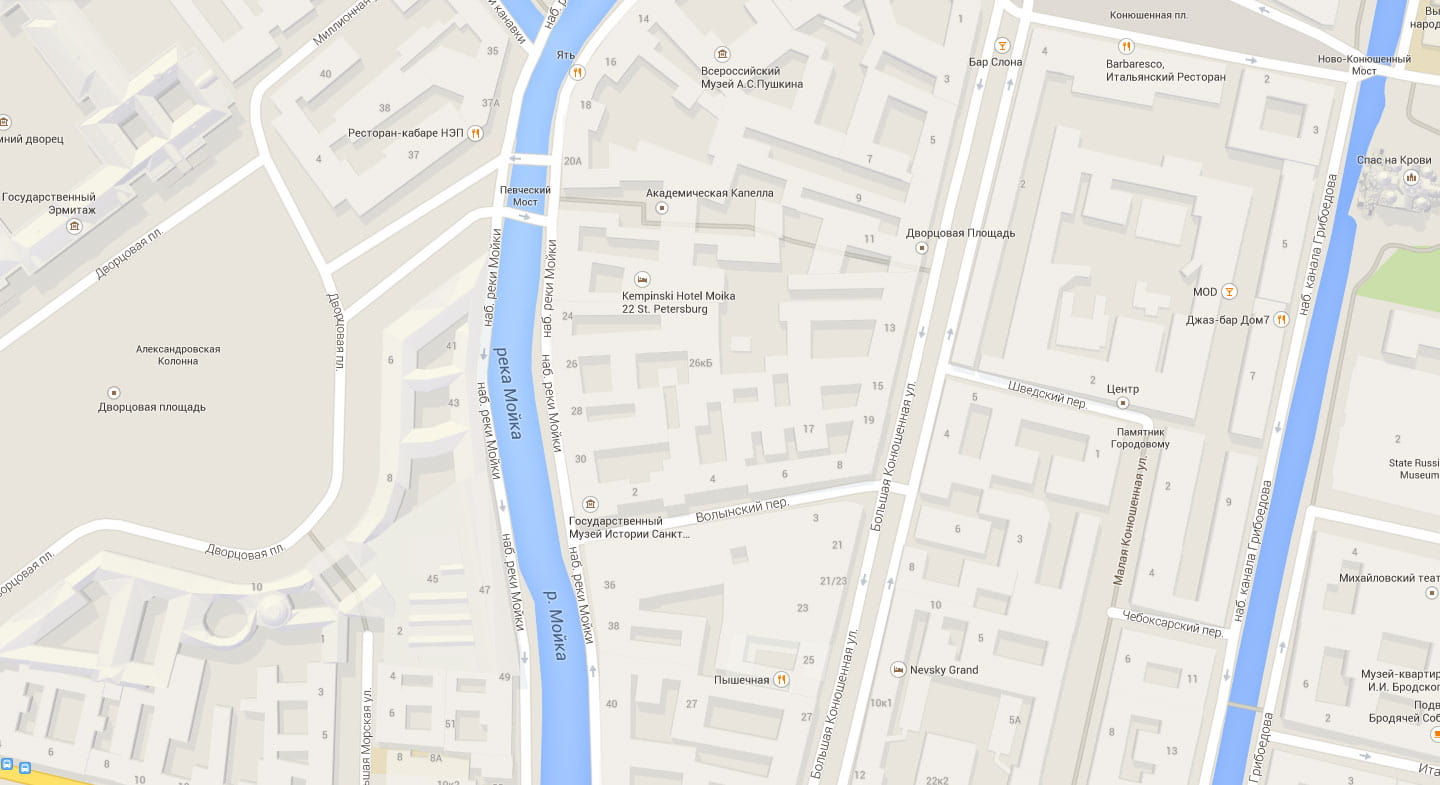
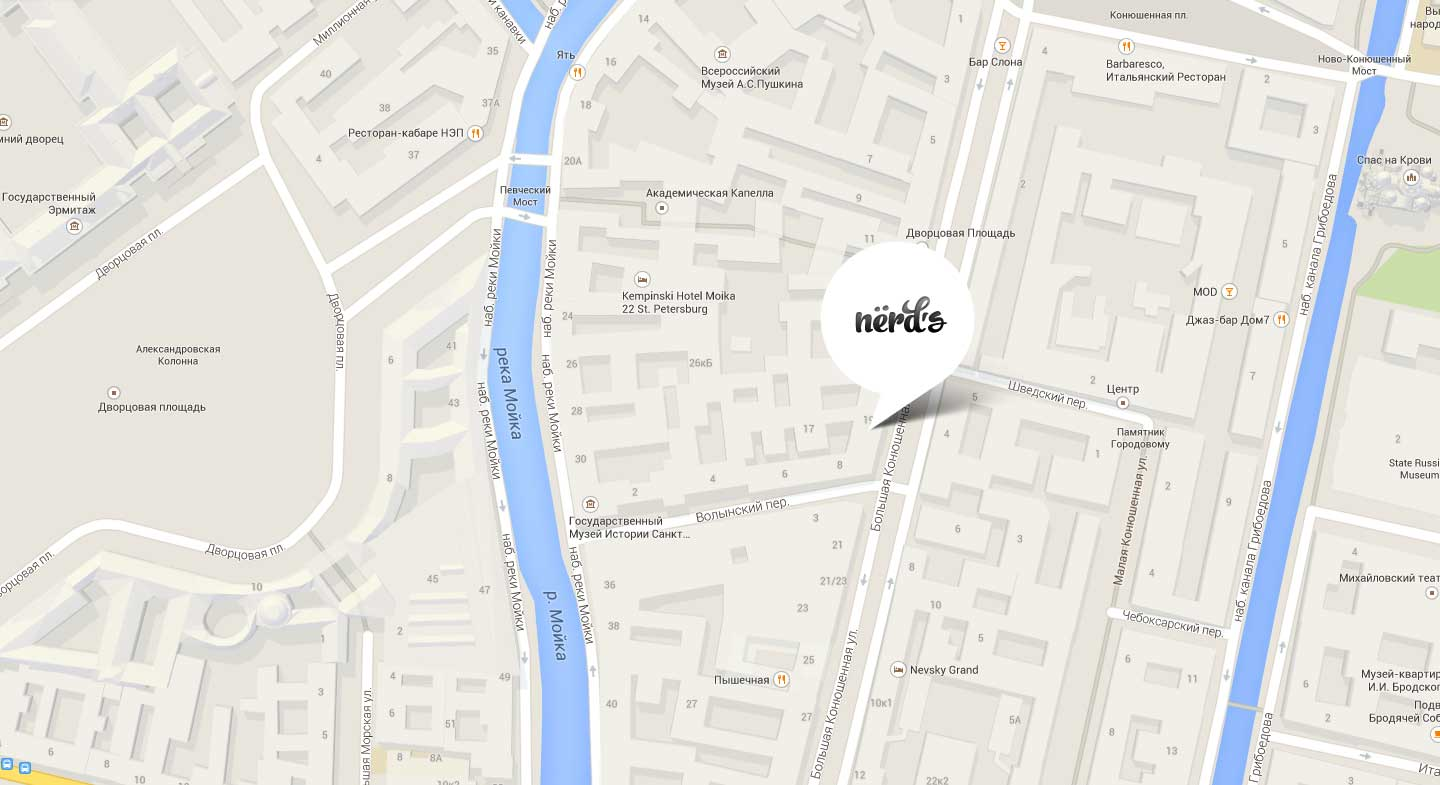
Версія 7 доробив блок з картою

Changed region(s): [[0.5625, 0.3057, 0.6875, 0.5503], [0.0, 0.9783, 0.0312, 1.0]]

diff --git a/index.html b/index.html
@@ -146,8 +146,15 @@
 		    </div>
 	    </section>
 	    <section class="map">
-	    	<img src="img/map.jpg" width="1400" height="420">
-	    	<img class="marker" src="img/marker.png" width="231" height="190" alt="Маркер">
+	    	<h2 class="visually-hidden">Карта</h2>
+	    	<div class="container">
+	    		<section class="address">
+	    			<h3>NЁRDS DESIGN STUDIO</h3>
+	    			<p>191186, Санкт-Петербург, ул. Б. Конюшенная, д. 19/8</p>
+	    			<span>тел. +7 (812) 275-75-75</span>
+	    			<a href="#" class="button button-address">Напишите нам</a>
+	    		</section>
+	    	</div>
 	    </section>
 	</main>
 </body>

diff --git a/css/style.css b/css/style.css
@@ -319,14 +319,28 @@ main {
 .partners-item:last-child::after {
 	display: none;
 }
+.map .container {
+	min-height: 230px; 
+	padding-top: 55px;
+	z-index: 2;
+}
 .map {
 	margin-top: 80px;
-	position: relative;
+	background-image: url(../img/map.jpg);
+	background-repeat: no-repeat;
+	background-position: 50% 35%;
+	background-size: cover;
+	min-height: 420px;
 }
-.map .marker {
-	position: absolute;
-	width: 231px;
-	height: 190px;
-	top: 40px;
-    left: 767px;
+.map .address {
+	width: 320px;
+	text-align: center;
+	padding: 50px 20px;
+	background-color: #ffffff;
+}
+.address p {
+	padding: 0 55px;
+}
+.button-address {
+	margin: 0 auto;
 }
